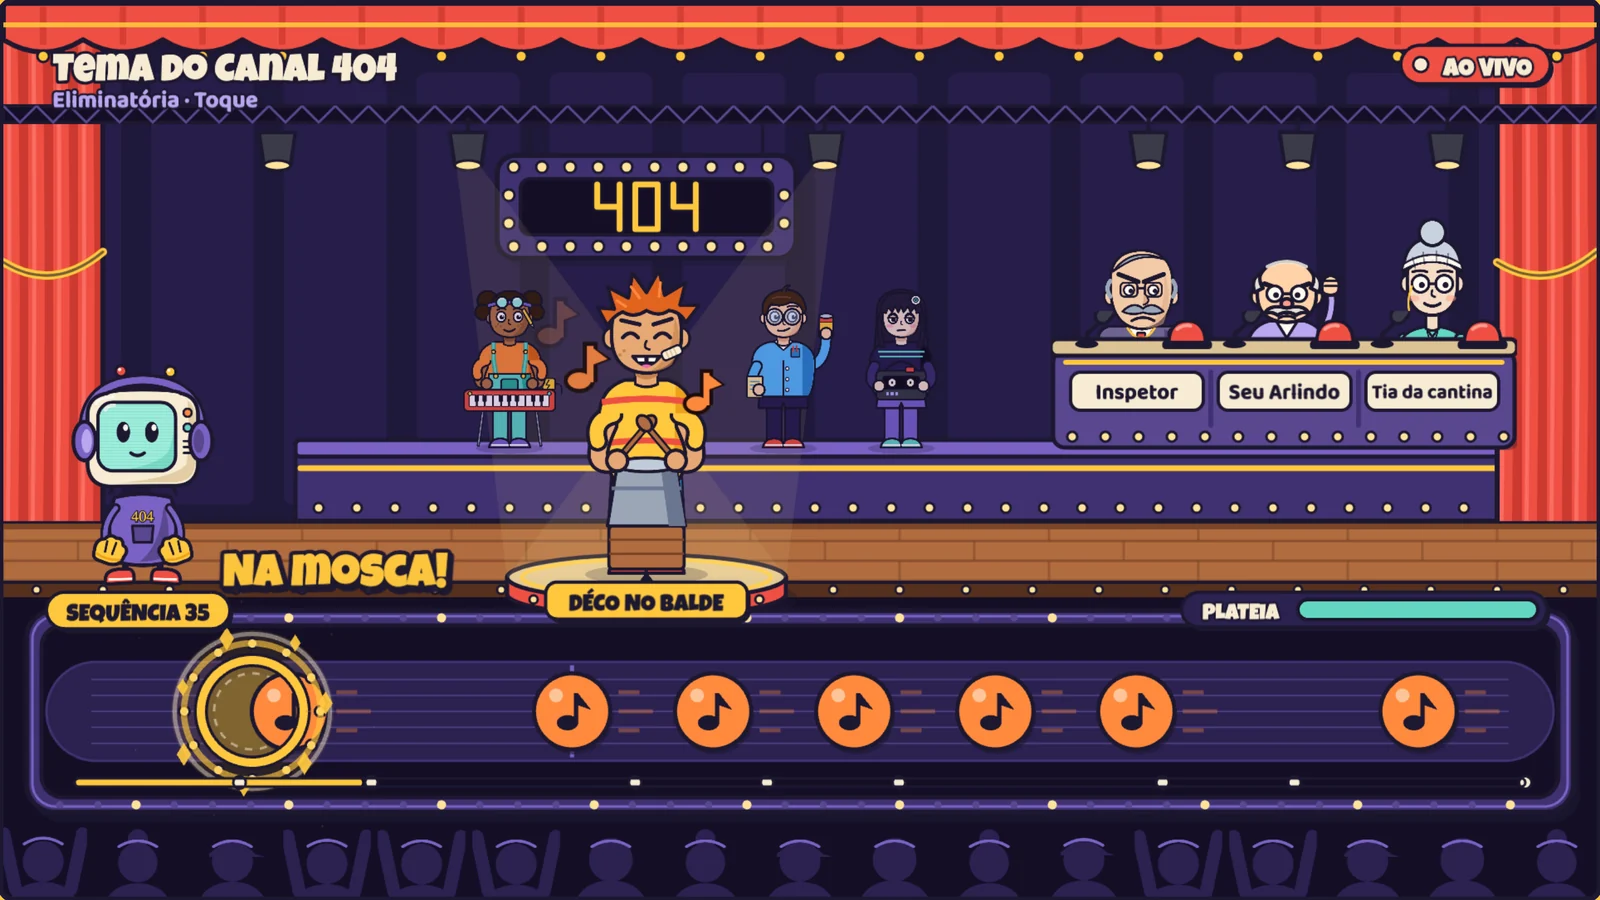
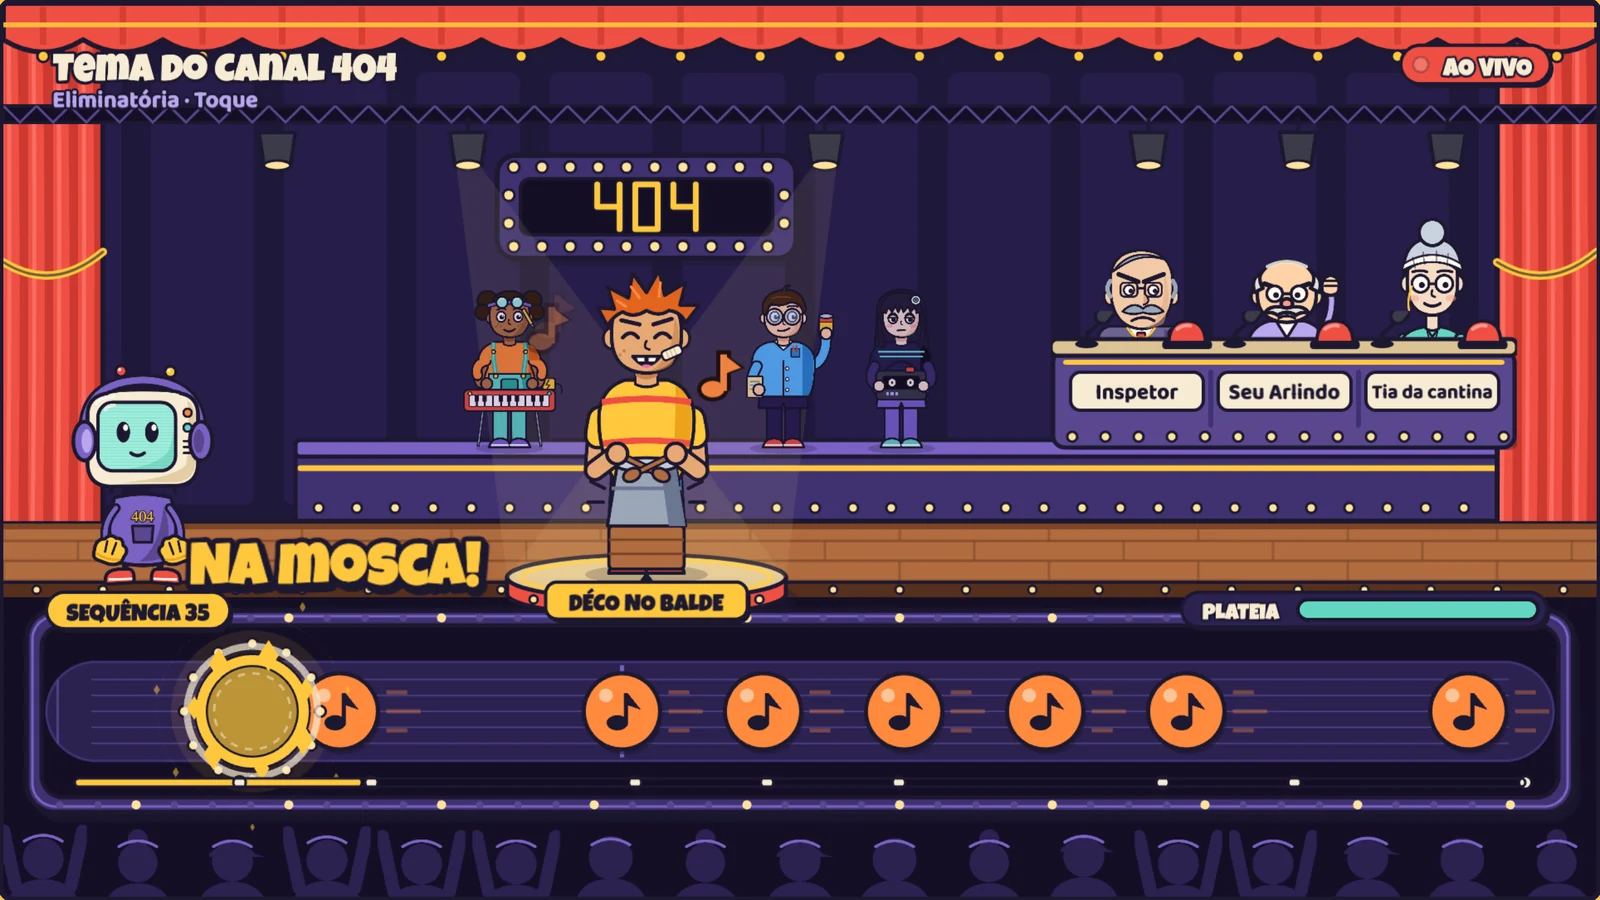
Hang Déco's arms from his shoulders in Ao Vivo no 404
After slimming Déco, his arms started just under the bust and curved along the tapered waist, so the arm and torso outlines crossed and puffy sleeve caps stood out like shoulder pads. His upper arms and short sleeves now sit behind the torso, hanging from the shoulders so the torso outline closes the joint, and only the forearms come forward to the bucket. The hit pose's impact lines move to the bucket's sides instead of crossing his chest.

The talent show share images and the README screenshot are regenerated.

diff --git a/scripts/talent-show-art/band.ts b/scripts/talent-show-art/band.ts
@@ -76,9 +76,24 @@ function arm(kid: Kid, side: 0 | 1, elbow: Point, to: Point) {
   return `${limb(path, k.skin)}<path d="${cap}" fill="none" stroke="${P.ink}" stroke-width="30" stroke-linecap="round"/><path d="${cap}" fill="none" stroke="${k.top}" stroke-width="20" stroke-linecap="round"/>`;
 }
 
+function hangingArm(kid: Kid, side: 0 | 1, elbow: Point, to: Point) {
+  const k = LOOK[kid];
+  const inset = BUST_INSET[kid] ?? 0;
+  const m = ([x, y]: Point): Point => (side === 0 ? [x, y] : [200 - x, y]);
+  const [sx, sy] = m([20 + inset, 230]);
+  const [bx, by] = m([elbow[0] + 1, (230 + elbow[1]) / 2]);
+  const [ex, ey] = m(elbow);
+  const [vx, vy] = m([17 + inset, 243]);
+  const [wx, wy] = m([16 + inset, 254]);
+  const [hx, hy] = m(to);
+  const upper = `${limb(`M${sx} ${sy} Q${bx} ${by} ${ex} ${ey}`, k.skin)}${limb(`M${sx} ${sy} Q${vx} ${vy} ${wx} ${wy}`, k.top, 40)}`;
+  const fore = limb(`M${ex} ${ey} L${hx} ${hy}`, k.skin);
+  return { upper, fore };
+}
+
 function bucket(pose: Pose) {
   const top = 296;
-  const lines = pose === "hit" ? `<path d="M48 ${top - 22} L36 ${top - 38} M100 ${top - 26} L100 ${top - 46} M152 ${top - 22} L164 ${top - 38}" ${ink(5)}/>` : "";
+  const lines = pose === "hit" ? `<path d="M40 ${top + 34} L20 ${top + 24} M38 ${top + 54} L16 ${top + 54} M160 ${top + 34} L180 ${top + 24} M162 ${top + 54} L184 ${top + 54}" ${ink(5)}/>` : "";
   return `<rect x="46" y="384" width="108" height="62" rx="6" fill="${P.wood}" ${ink(4.5)}/><path d="M46 404 L154 404 M46 424 L154 424" stroke="${P.woodDeep}" stroke-width="4"/><path d="M58 ${top} L142 ${top} L156 384 L44 384 Z" fill="#9aa6b8" ${ink(4.5)}/><path d="M120 ${top} L142 ${top} L156 384 L132 384 Z" fill="#6b7590"/><ellipse cx="100" cy="${top}" rx="44" ry="10" fill="#c3ccd9" ${ink(4.5)}/><path d="M50 330 L150 330" stroke="#6b7590" stroke-width="5"/>${lines}`;
 }
 
@@ -119,19 +134,14 @@ function figure(kid: Kid, pose: Pose) {
   let back = "";
   let front = "";
   if (kid === "deco") {
-    if (pose === "ready") {
-      const hands: [Point, Point] = [
-        [58, 290],
-        [142, 290],
-      ];
-      front = bucket(pose) + arm(kid, 0, [12, 306], hands[0]) + arm(kid, 1, [188, 306], hands[1]) + spoon(hands[0], -50) + spoon(hands[1], -130) + hand(hands[0], k.skin) + hand(hands[1], k.skin);
-    } else {
-      const hands: [Point, Point] = [
-        [56, 276],
-        [144, 276],
-      ];
-      front = bucket(pose) + arm(kid, 0, [16, 300], hands[0]) + arm(kid, 1, [184, 300], hands[1]) + spoon(hands[0], 26) + spoon(hands[1], 154) + hand(hands[0], k.skin) + hand(hands[1], k.skin);
-    }
+    const ready = pose === "ready";
+    const elbow: Point = ready ? [24, 310] : [26, 304];
+    const grip: Point = ready ? [60, 292] : [58, 280];
+    const hands: [Point, Point] = [grip, [200 - grip[0], grip[1]]];
+    const sticks = ready ? spoon(hands[0], -50) + spoon(hands[1], -130) : spoon(hands[0], 26) + spoon(hands[1], 154);
+    const arms = [hangingArm(kid, 0, elbow, grip), hangingArm(kid, 1, elbow, grip)];
+    back = arms[0].upper + arms[1].upper;
+    front = bucket(pose) + arms[0].fore + arms[1].fore + sticks + hand(hands[0], k.skin) + hand(hands[1], k.skin);
   } else if (kid === "lina") {
     const y = pose === "ready" ? 284 : 300;
     const hands: [Point, Point] = [
